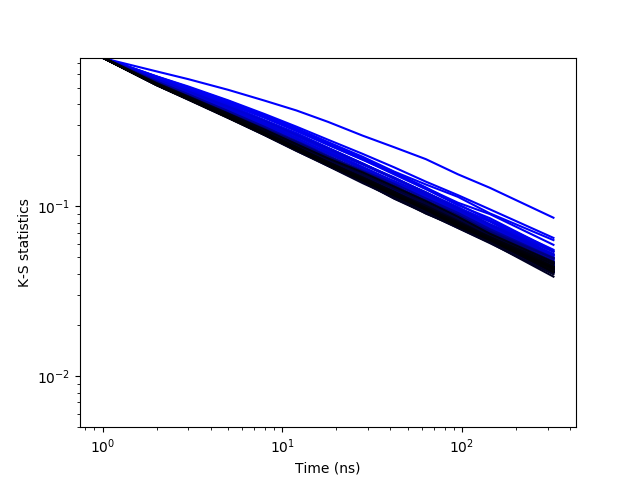
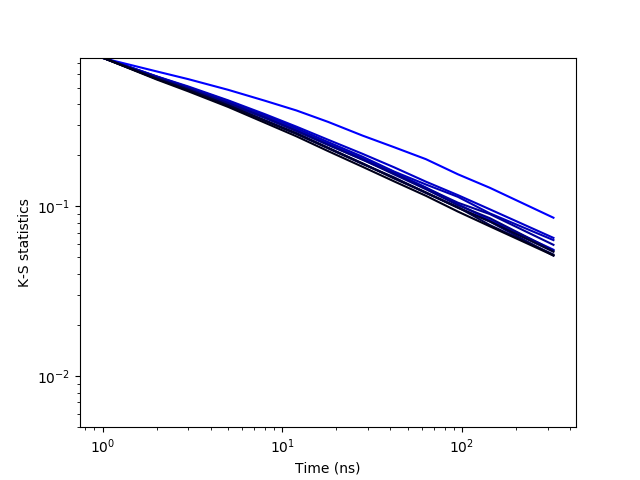
KSS_AUTO_SINGLE

Changed region(s): [[0.1562, 0.125, 0.875, 0.5938]]

diff --git a/scr/autocorr.py b/scr/autocorr.py
@@ -95,12 +95,12 @@ def main(filenames, N_lips, timestep, file_out = 'autocorr_relaxtime_vs_PC.xvg')
 		POINTS.append(j)
 		j = int(1.5 * j) + 1
 	# print(POINTS)
-	for idx, obj in enumerate(data[:100]):
+	for idx, obj in enumerate(data[:10]):
 		T = obj[0]
 		R = obj[1]
-		T_pic = [T[i] for i in POINTS]
-		R_pic = [R[i] for i in POINTS]
-		plt.loglog(T_pic, R_pic, color = [0, 0, 1 - idx / 100])
+		# T_pic = [T[i] for i in POINTS]
+		# R_pic = [R[i] for i in POINTS]
+		plt.loglog(T, R, color = [0, 0, 1 - idx / 10])
 	plt.ylim([0.001, 1])
 	plt.xlabel('Time (ns)')
 	plt.ylabel('Autocorrelation')

diff --git a/scr/kss_time_scale.py b/scr/kss_time_scale.py
@@ -185,10 +185,10 @@ def main(filenames, N_lipids, timestep, fileout = None):
 
     with Pool(8) as p:
         data = p.starmap(calc, input_data)
-        for idx, obj in  enumerate(data[:100]):
+        for idx, obj in  enumerate(data[:10]):
             T = obj[1]
             KSS_time = obj[0]
-            plt.loglog(T, KSS_time, color = [0, 0, 1 - idx / 100])
+            plt.loglog(T, KSS_time, color = [0, 0, 1 - idx / 10])
     plt.ylim([0.005, 0.75])
     plt.xlabel('Time (ns)')
     plt.ylabel('K-S statistics')
